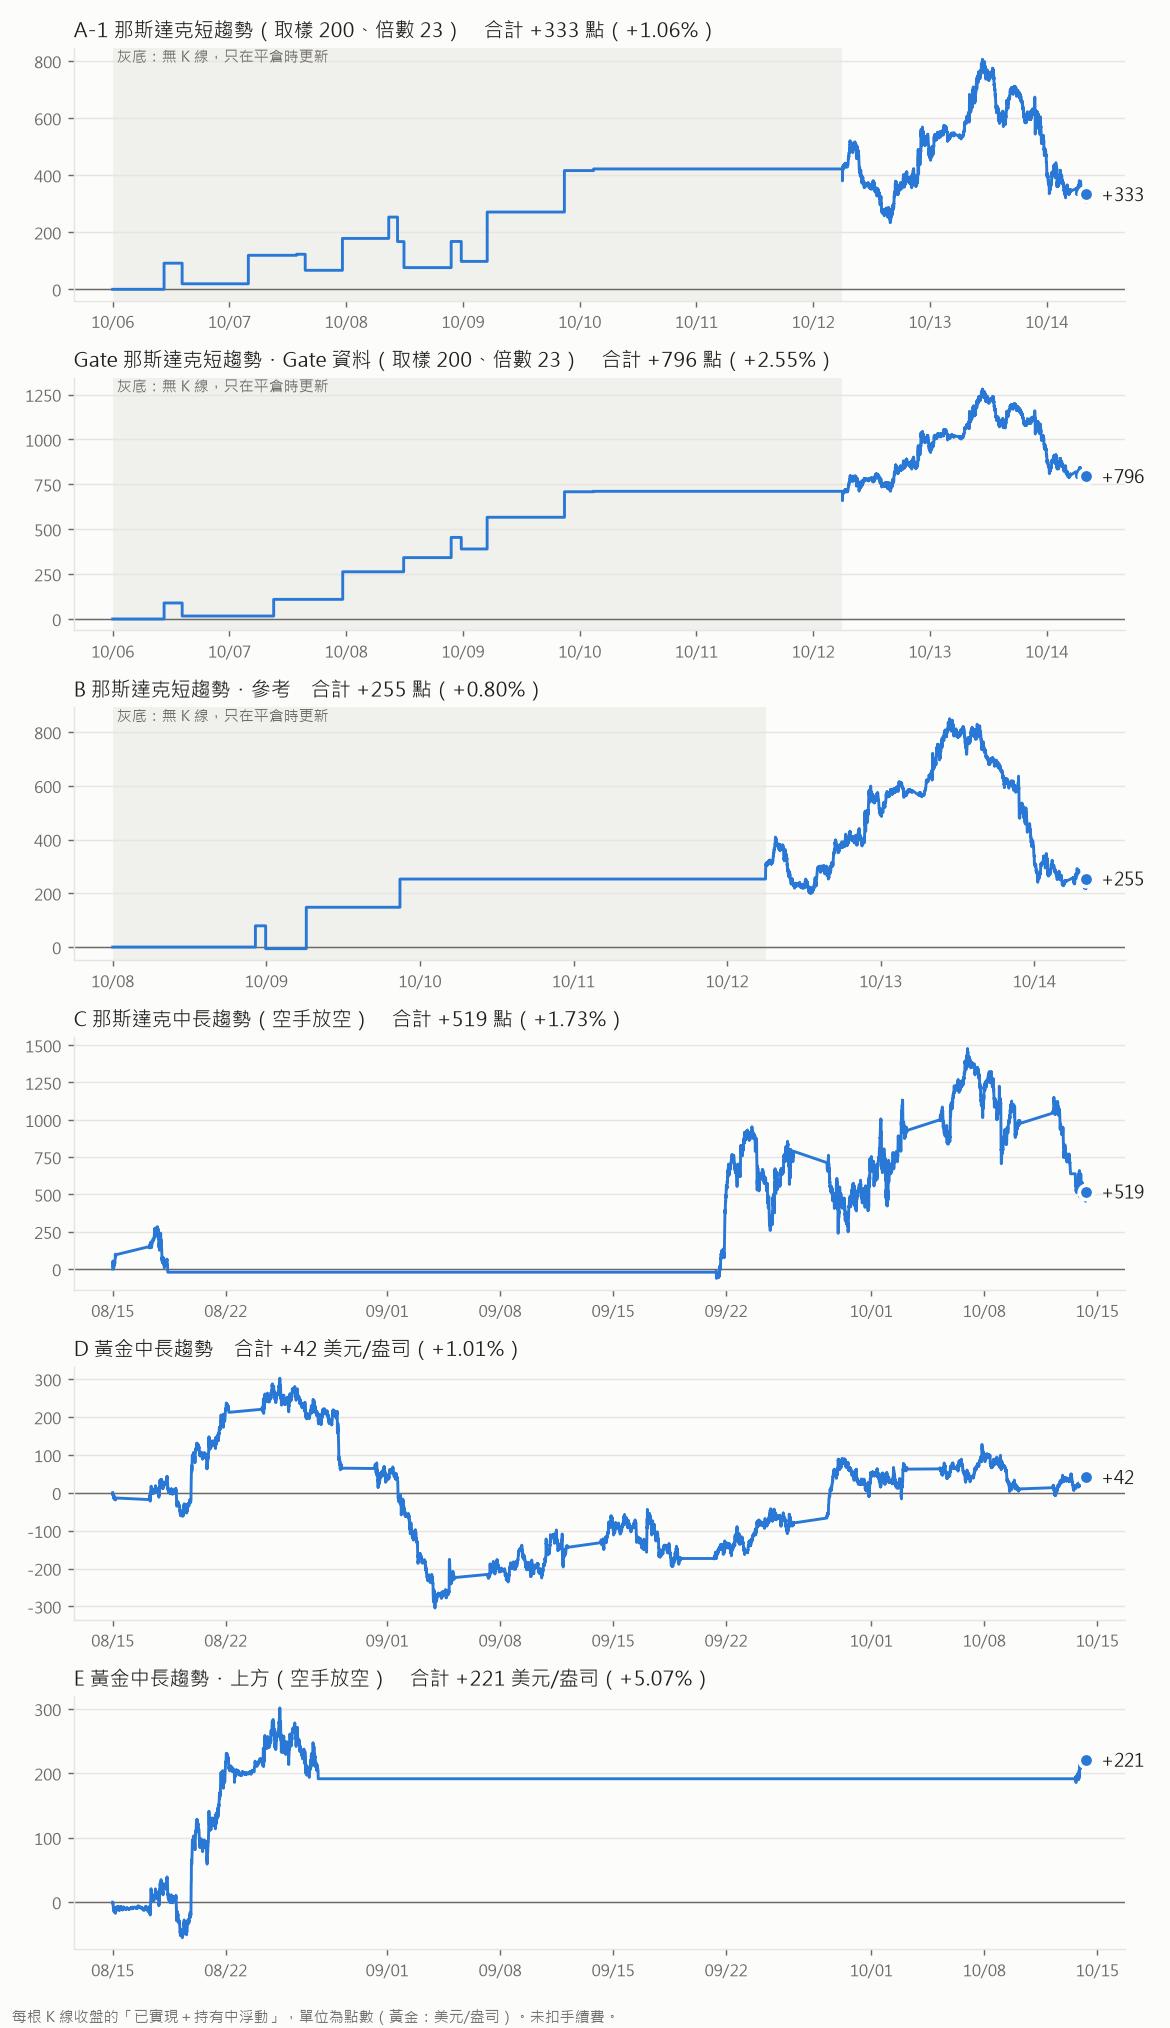
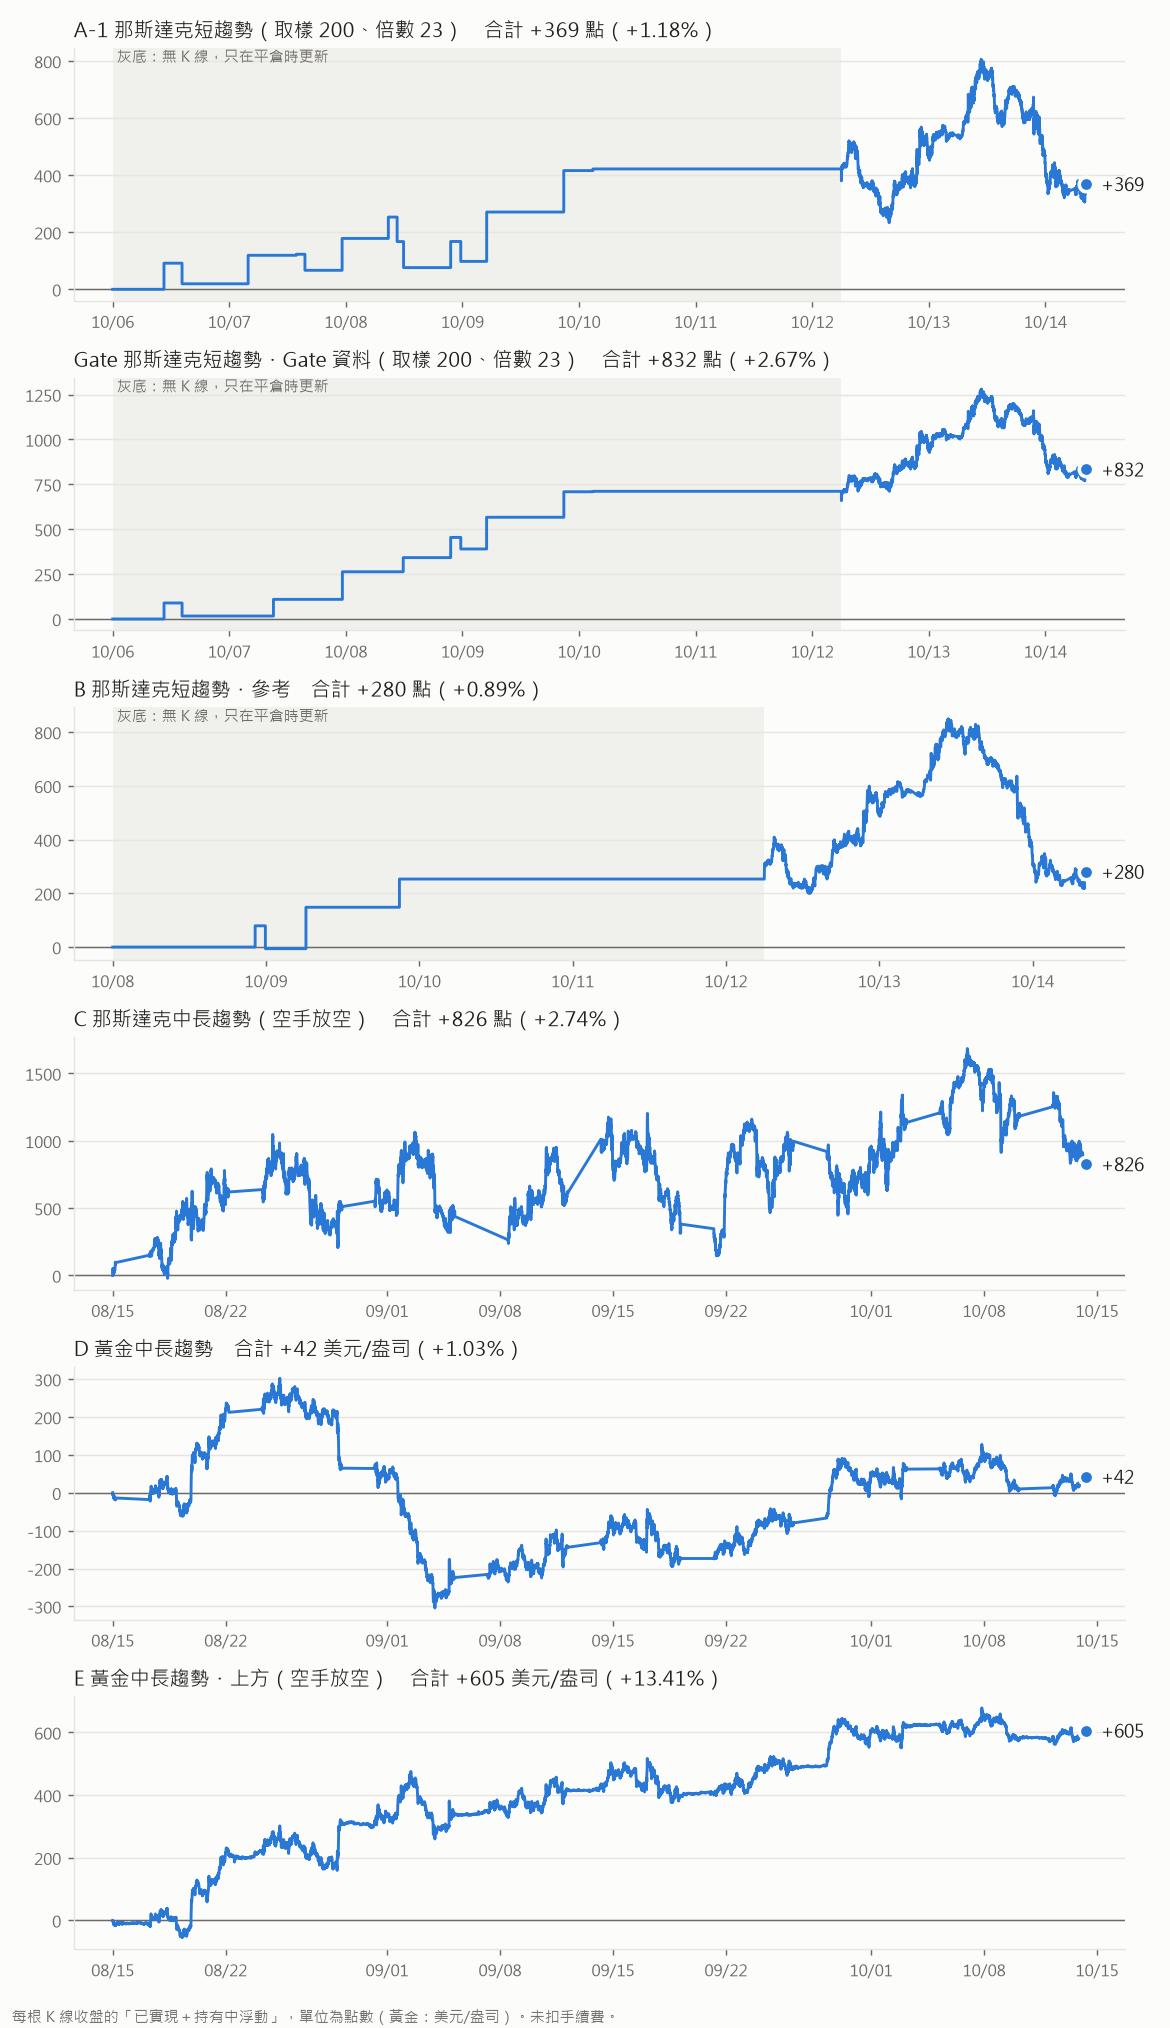
實際紀錄：D、F（紀錄檔 C、E）空手放空規則回溯至起算日，與儀表板策略同步
使用者要求格子上的進場時間與績效跟策略一致。C 格 8/18、10/13 08:06 改翻空，
E 格 8/27 改翻空，刪掉 10/13 15:24 改規則時補開的兩列。重跑後新增 0 筆、無校正列。

diff --git a/實際紀錄/更新紀錄.py b/實際紀錄/更新紀錄.py
@@ -395,7 +395,8 @@ def update(k, B, pos, warm, contract, nqconv=None, min_t=None):
             add(i, action(cur, pos[i]), pos[i]); cur = pos[i]
     return new
 
-# 2026-10-13 起 C、E 格「空手改放空」（使用者指定；紀錄從當天起照新規則，舊列不改）：
+# 2026-10-13 起 C、E 格「空手改放空」（使用者指定）。2026-10-14 使用者要求進場時間與績效跟策略同步，
+# 紀錄已手動回溯至起算日（C 8/18、10/13 08:06 與 E 8/27 改成翻空，刪掉 10/13 15:24 補開的列），switch_rule 不會再觸發：
 # 原規則（只做多）空手的時段一律持空、永遠在場；進出時機不變。儀表板 v1.8.0 的 toFlatShort 同一套。
 # 黃金儀表板「上方」與 LINE 推播仍是只做多，E 格從此跟它們不同。
 def flat_short(pos): return [1 if p == 1 else -1 for p in pos]
